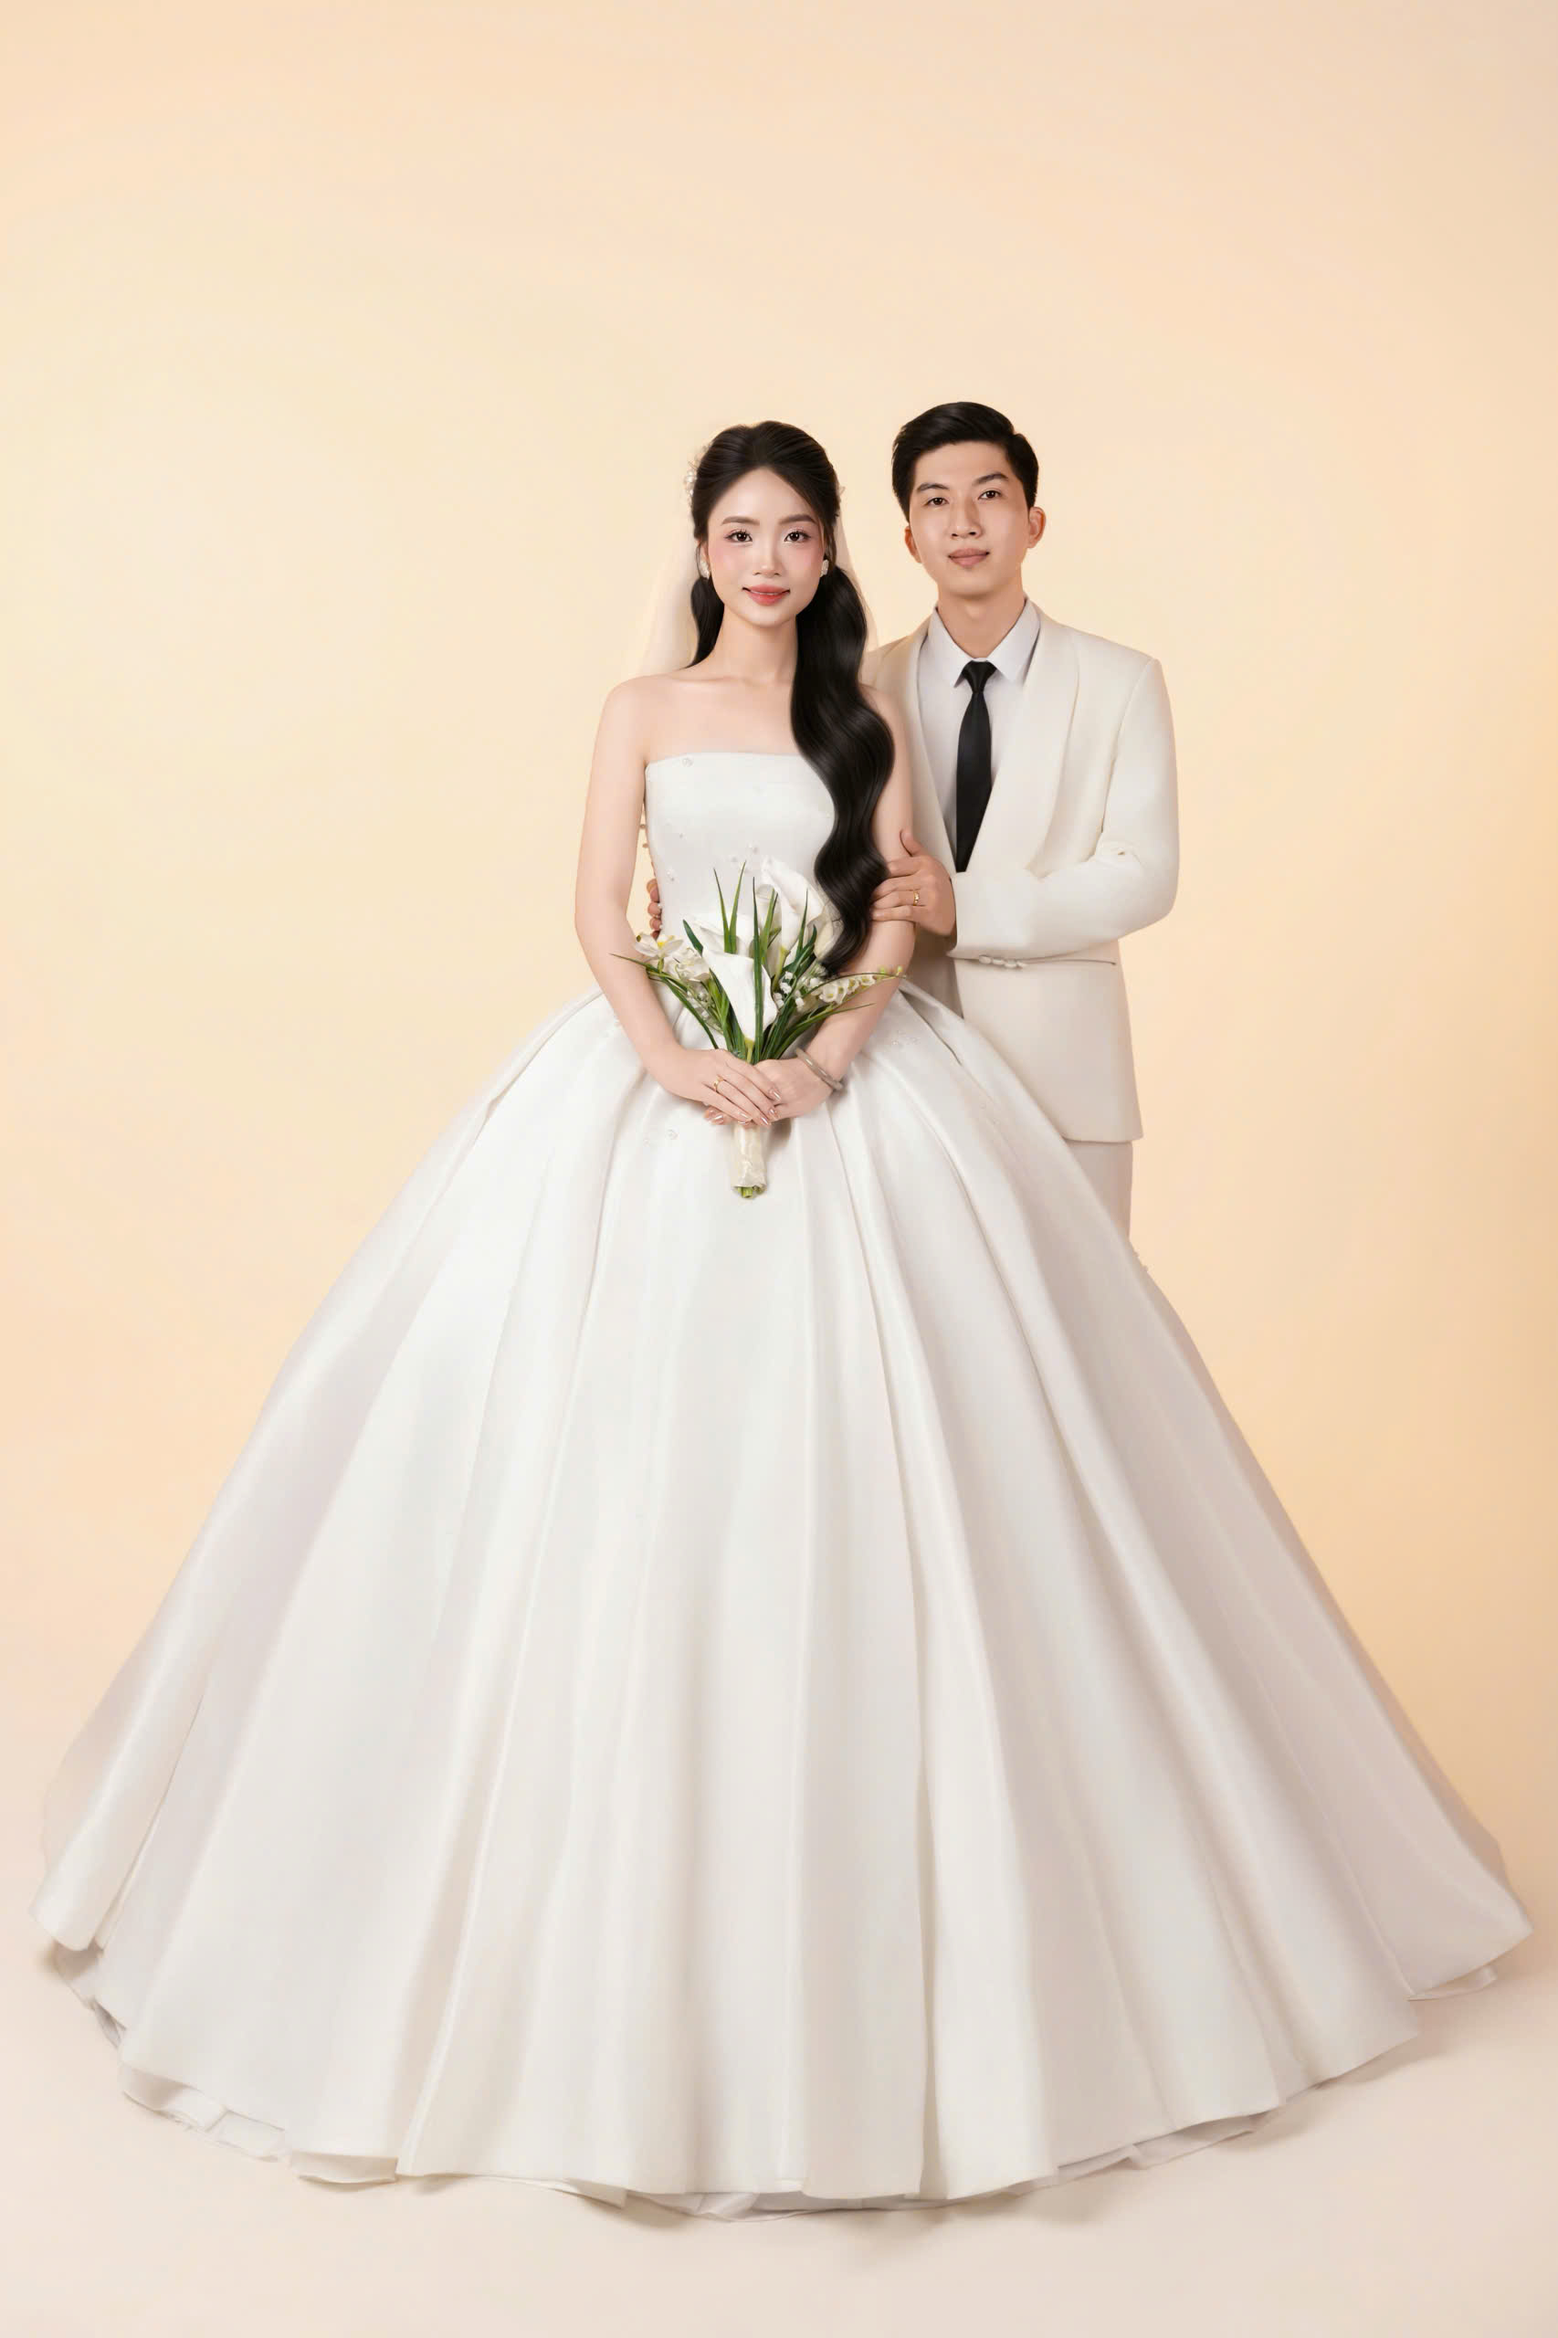
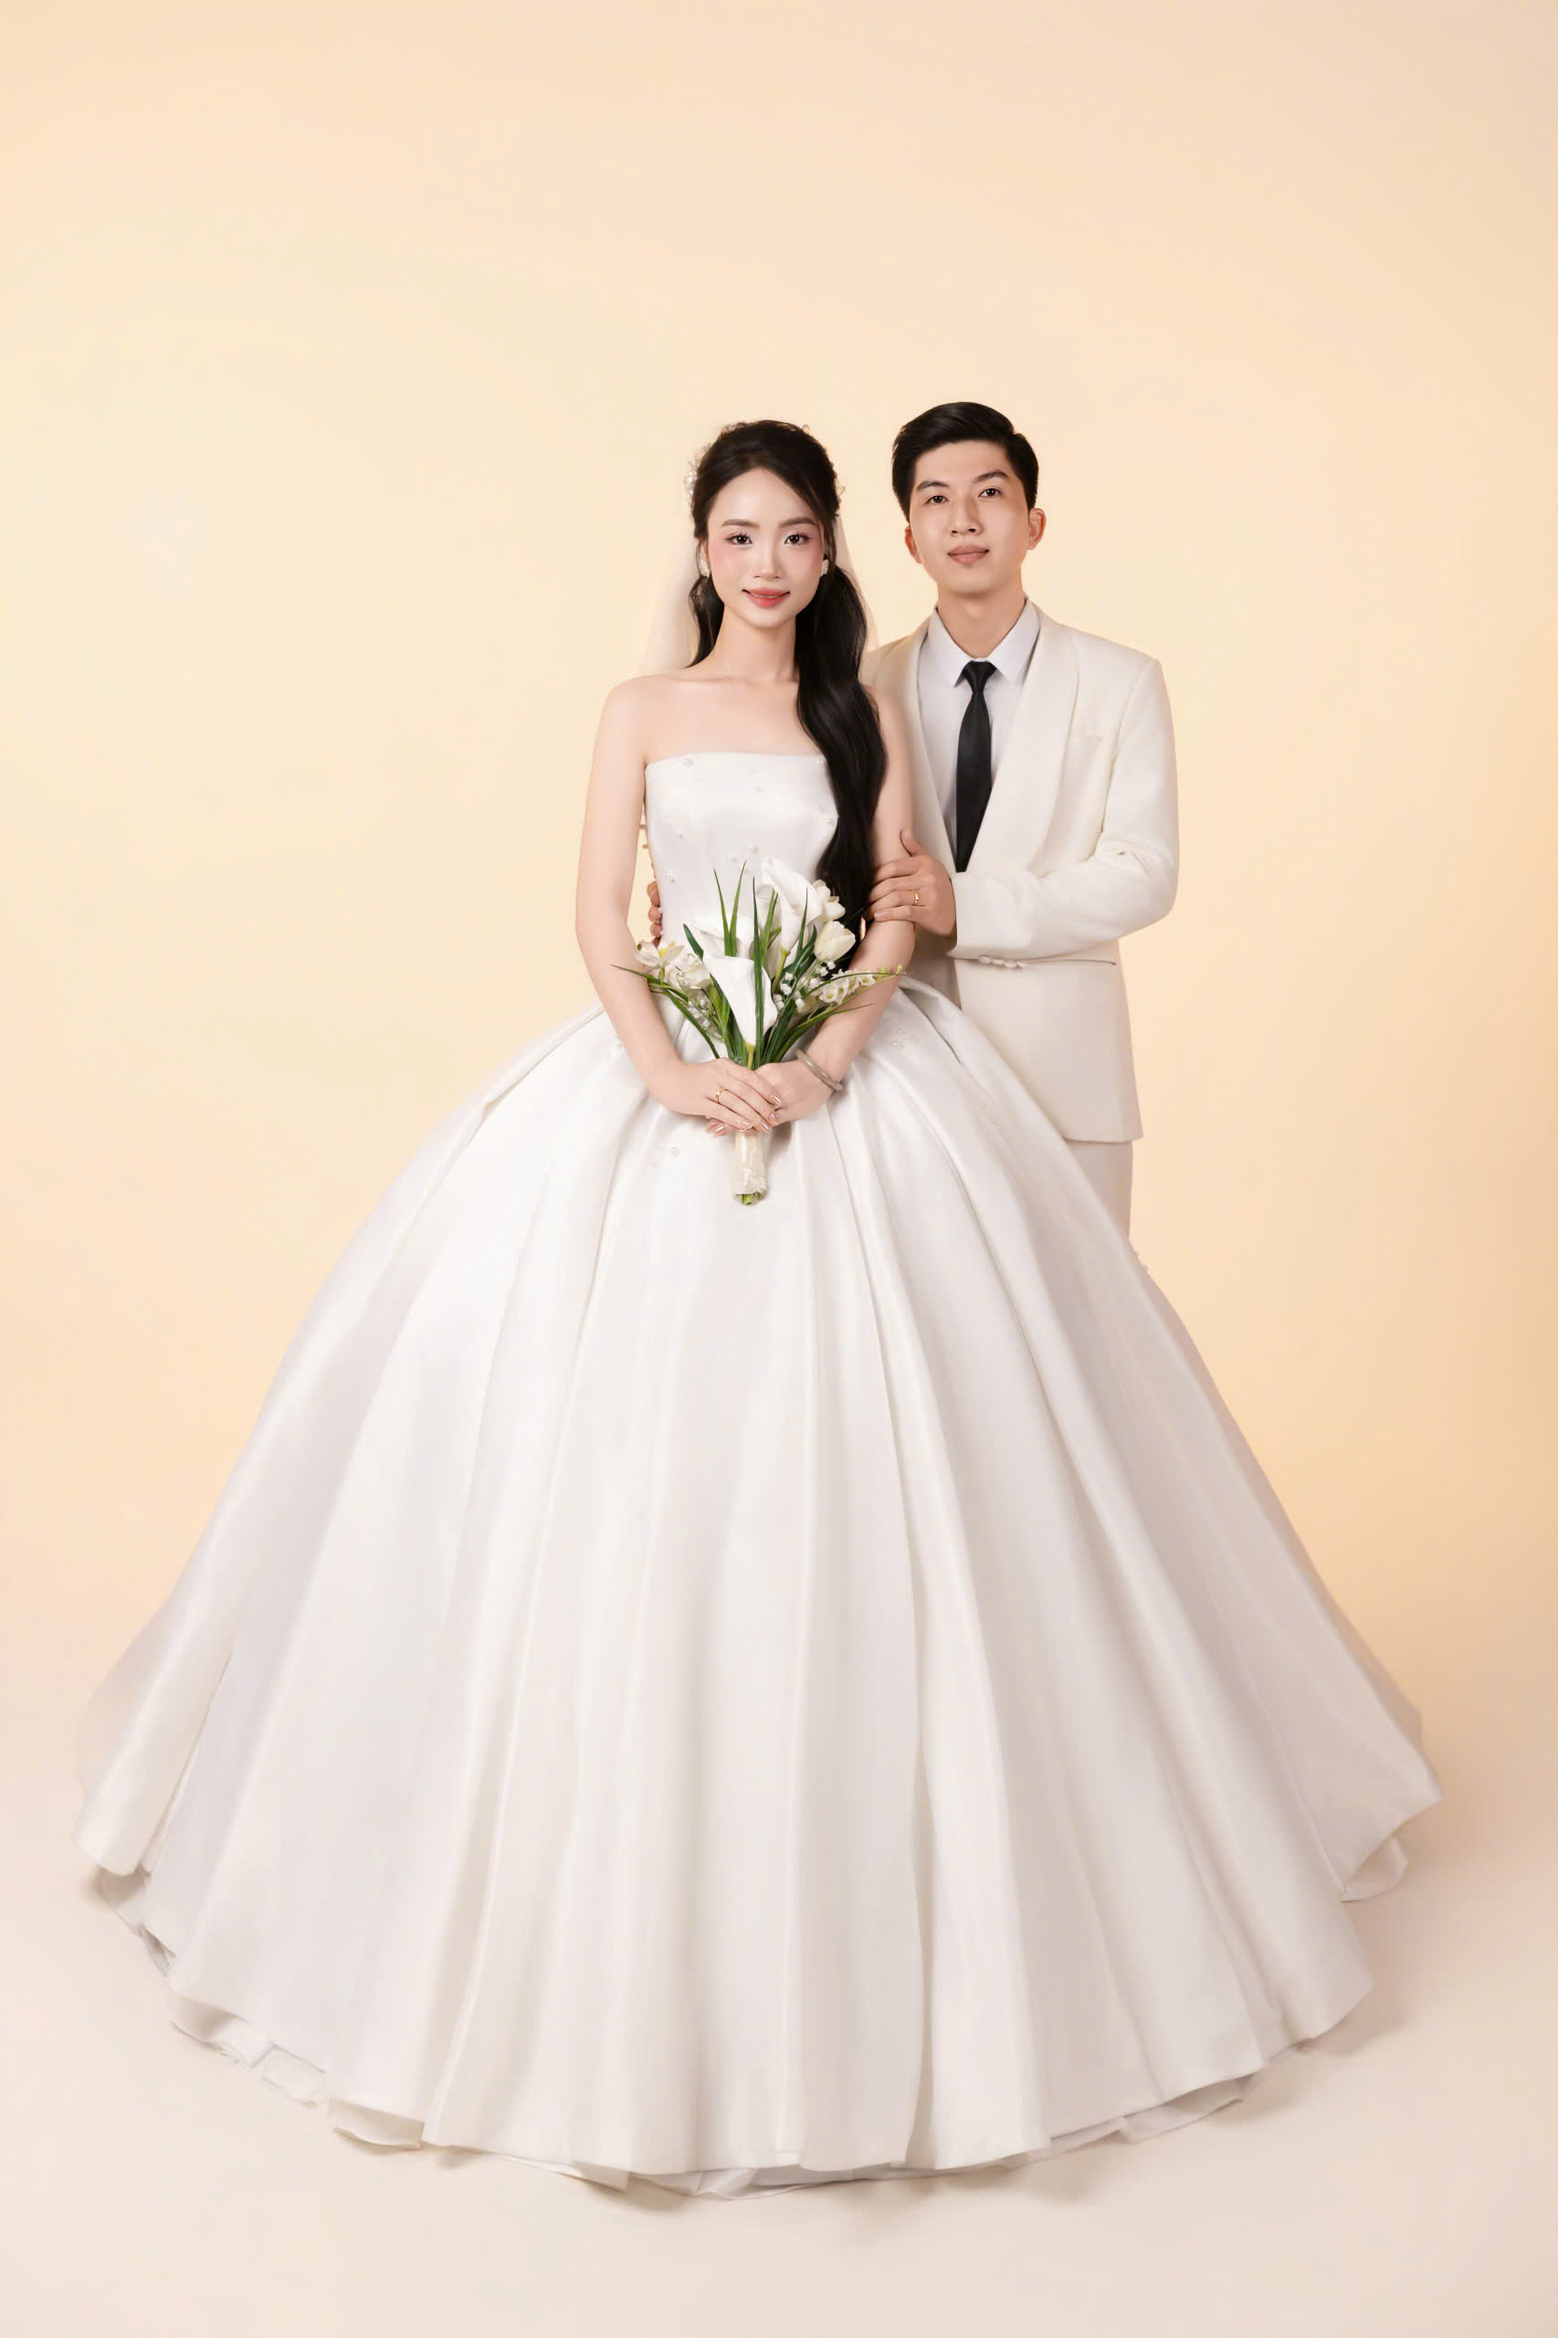
chore: update images and maps

diff --git a/index.html b/index.html
@@ -325,7 +325,7 @@
                 <div class="col-sm-6 col-xs-12">
                   <div class="story-lt-rt story-rt">
                     <div class="image-story">
-                      <img src="./images/huong-lan-coffee.jpg" alt="" />
+                      <img src="./images/phong-lan-coffee.jpg" alt="" />
                     </div>
                   </div>
                 </div>
@@ -444,7 +444,7 @@
                 <div class="col-sm-6 col-xs-6">
                   <div class="story-lt-rt story-rt">
                     <div class="image-story">
-                      <img src="./images/huong-lan-coffee.jpg" alt="" />
+                      <img src="./images/phong-lan-coffee.jpg" alt="" />
                     </div>
                   </div>
                 </div>
@@ -517,7 +517,7 @@
       id="the-countdown"
       class="the-countdown layered-b section-padding"
       style="
-        background-image: url(./images/slide-ex.webp);
+        background-image: url(./images/slide1.jpg);
         background-repeat: no-repeat;
         background-size: cover;
         background-attachment: fixed;
@@ -602,7 +602,7 @@
                     </p>
                     <a
                       style="font-size: 16px"
-                      href="https://www.google.com/maps/place/Da+Nang,+H%E1%BA%A3i+Ch%C3%A2u+District,+Da+Nang,+Vietnam/@16.0471659,108.1716864,13z/data=!3m1!4b1!4m5!3m4!1s0x314219c792252a13:0xfc14e3a044436487!8m2!3d16.0544068!4d108.2021667"
+                      href="https://maps.app.goo.gl/vULwfUHpUk4yjq4r5"
                       target="_blank"
                       >Xem bản đồ <i class="fa fa-caret-right"></i
                     ></a>
@@ -639,7 +639,7 @@
                     </p>
                     <a
                       style="font-size: 16px"
-                      href="https://www.google.com/maps/place/Da+Nang,+H%E1%BA%A3i+Ch%C3%A2u+District,+Da+Nang,+Vietnam/@16.0471659,108.1716864,13z/data=!3m1!4b1!4m5!3m4!1s0x314219c792252a13:0xfc14e3a044436487!8m2!3d16.0544068!4d108.2021667"
+                      href="https://maps.app.goo.gl/vULwfUHpUk4yjq4r5"
                       target="_blank"
                       >Xem bản đồ <i class="fa fa-caret-right"></i
                     ></a>
@@ -676,7 +676,7 @@
                     </p>
                     <a
                       style="font-size: 16px"
-                      href="https://www.google.com/maps/place/Ph%C6%B0%E1%BB%9Bc%20Ninh%2C%20H%E1%BA%A3i%20Ch%C3%A2u%2C%20%C4%90%C3%A0%20N%E1%BA%B5ng"
+                      href="https://maps.app.goo.gl/XwZoyn9z7u2XxGd77"
                       target="_blank"
                       >Xem bản đồ <i class="fa fa-caret-right"></i
                     ></a>
@@ -713,7 +713,7 @@
                     </p>
                     <a
                       style="font-size: 16px"
-                      href="https://www.google.com/maps/place/Da+Nang,+H%E1%BA%A3i+Ch%C3%A2u+District,+Da+Nang,+Vietnam/@16.0471659,108.1716864,13z/data=!3m1!4b1!4m5!3m4!1s0x314219c792252a13:0xfc14e3a044436487!8m2!3d16.0544068!4d108.2021667"
+                      href="https://maps.app.goo.gl/XwZoyn9z7u2XxGd77"
                       target="_blank"
                       >Xem bản đồ <i class="fa fa-caret-right"></i
                     ></a>
@@ -730,7 +730,7 @@
       id="the-quote"
       class="the-quote layered-b section-padding"
       style="
-        background-image: url(./images/slide-ex.webp);
+        background-image: url(./images/slide1.jpg);
         background-repeat: no-repeat;
         background-size: cover;
         background-attachment: fixed;
@@ -942,11 +942,12 @@ Bước đi với bàn tay của bạn trong tay tôi và bàn tay của tôi tr
       id="footer"
       class="footer-widgets"
       style="
-        background-image: url(./images/slide-ex.webp);
+        background-image: url(./images/slide1.jpg);
         background-repeat: no-repeat;
         background-size: cover;
-        background-position: bottom;
-        background-attachment: fixed;
+        box-shadow: inset 0 0 0 50vw rgba(0, 0, 0, 0.3);
+        /* background-position: bottom;
+        background-attachment: fixed; */
         width: 100%;
       "
     >
